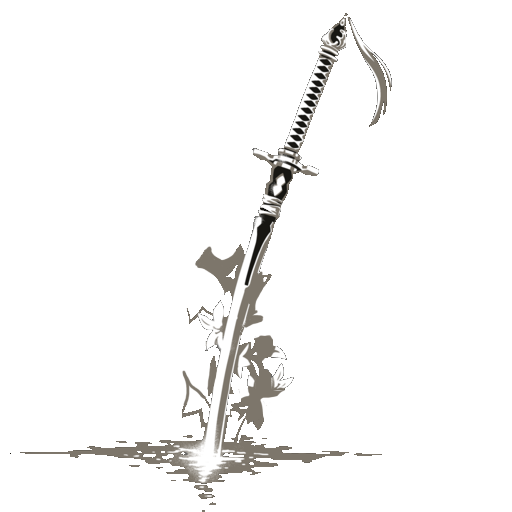
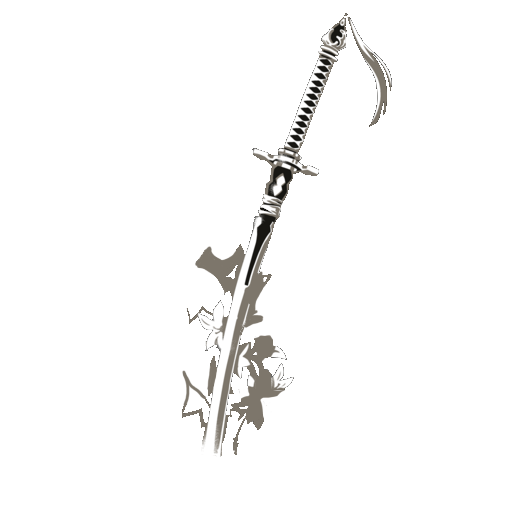
started to seperate distortion

Changed region(s): [[0.0625, 0.8438, 0.7188, 1.0]]

diff --git a/nier_live_wallpaper_noicegentest/js/script.js b/nier_live_wallpaper_noicegentest/js/script.js
@@ -17,6 +17,7 @@ class Plane {
       u_tex_flower3: { type: "t" },
       u_tex_flower4: { type: "t" },
       u_tex_flower5: { type: "t" },
+      u_tex_water: { type: "t" },
     
     };
     this.material = this.createMaterial();
@@ -58,6 +59,9 @@ class Plane {
     });
     new THREE.TextureLoader().load("media/sword/flower5.png", function (tex) {
       mat.uniforms.u_tex_flower5.value = tex;
+    });
+    new THREE.TextureLoader().load("media/sword/water.png", function (tex) {
+      mat.uniforms.u_tex_water.value = tex;
     });
   }
 
